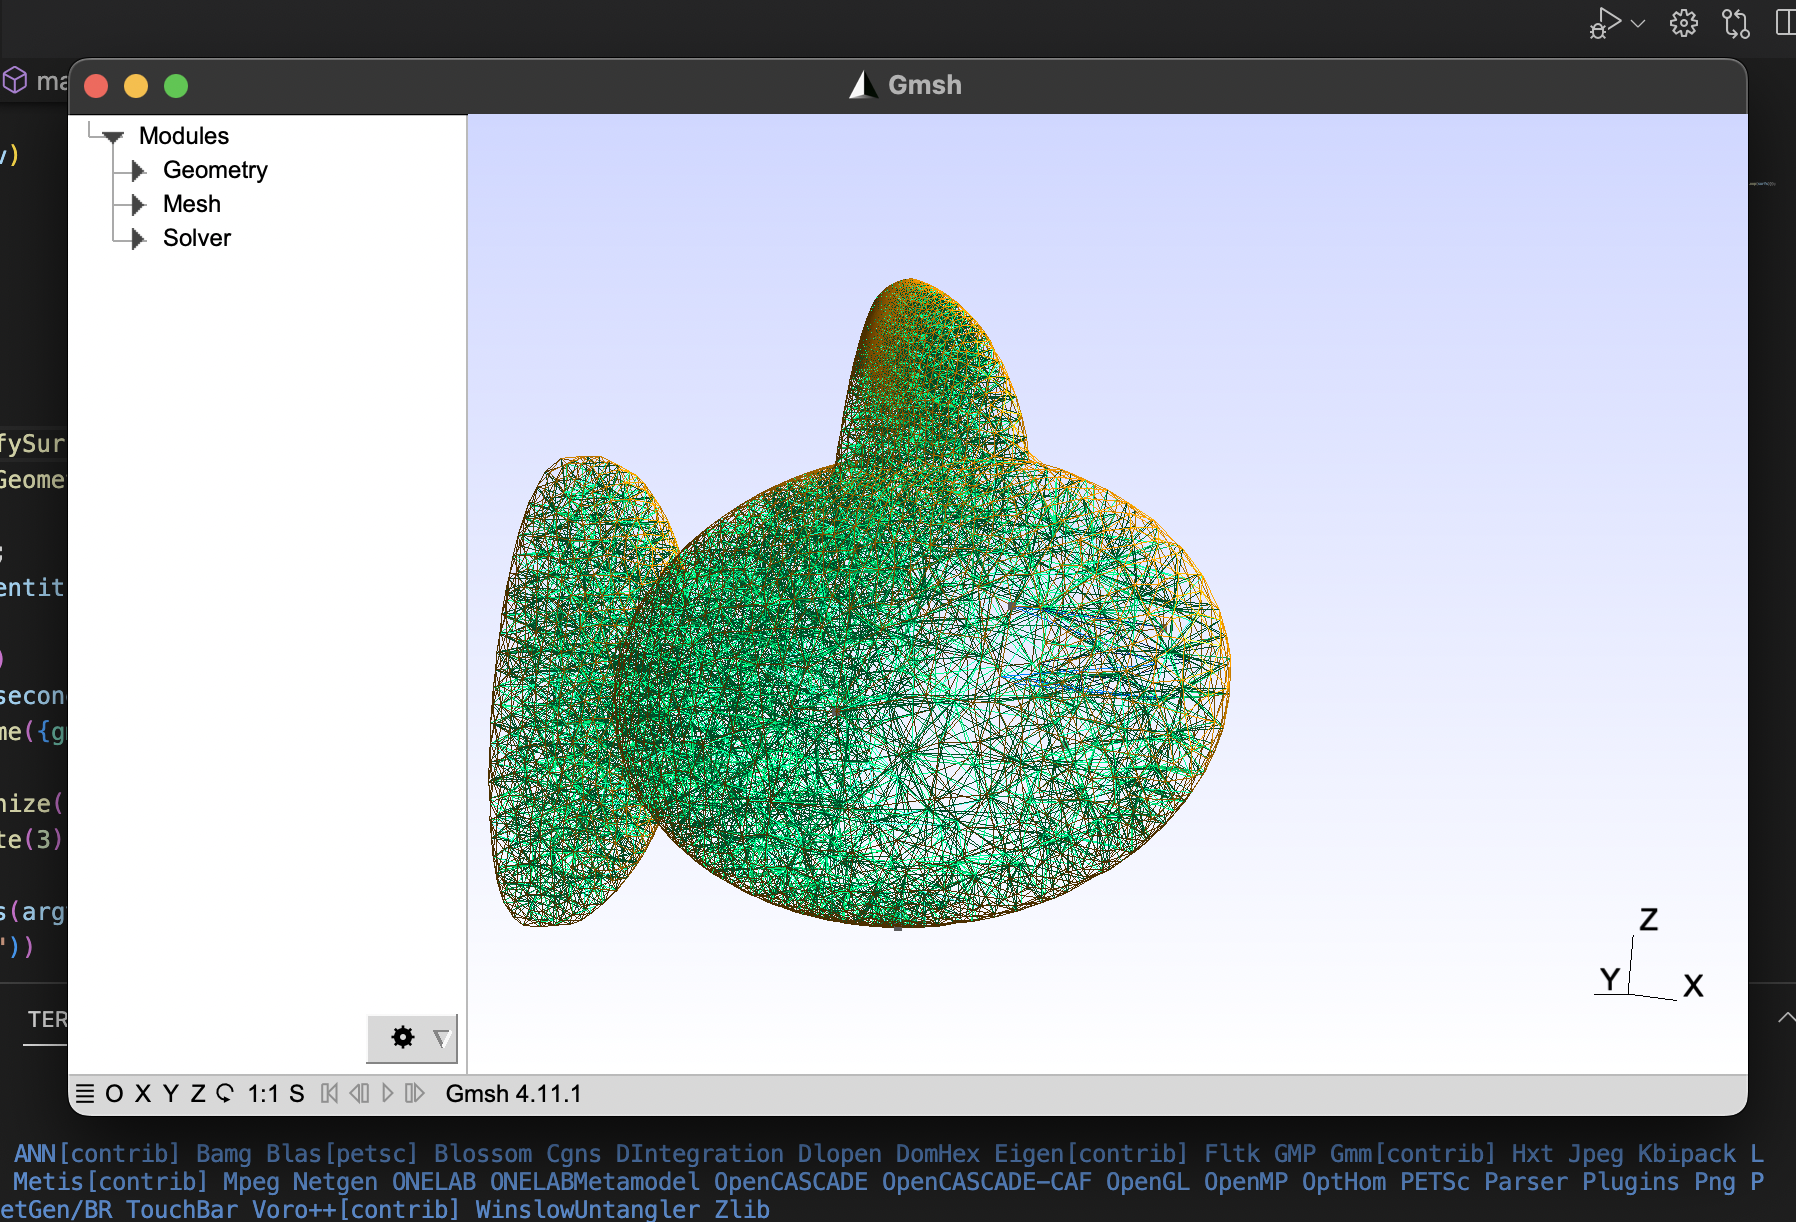
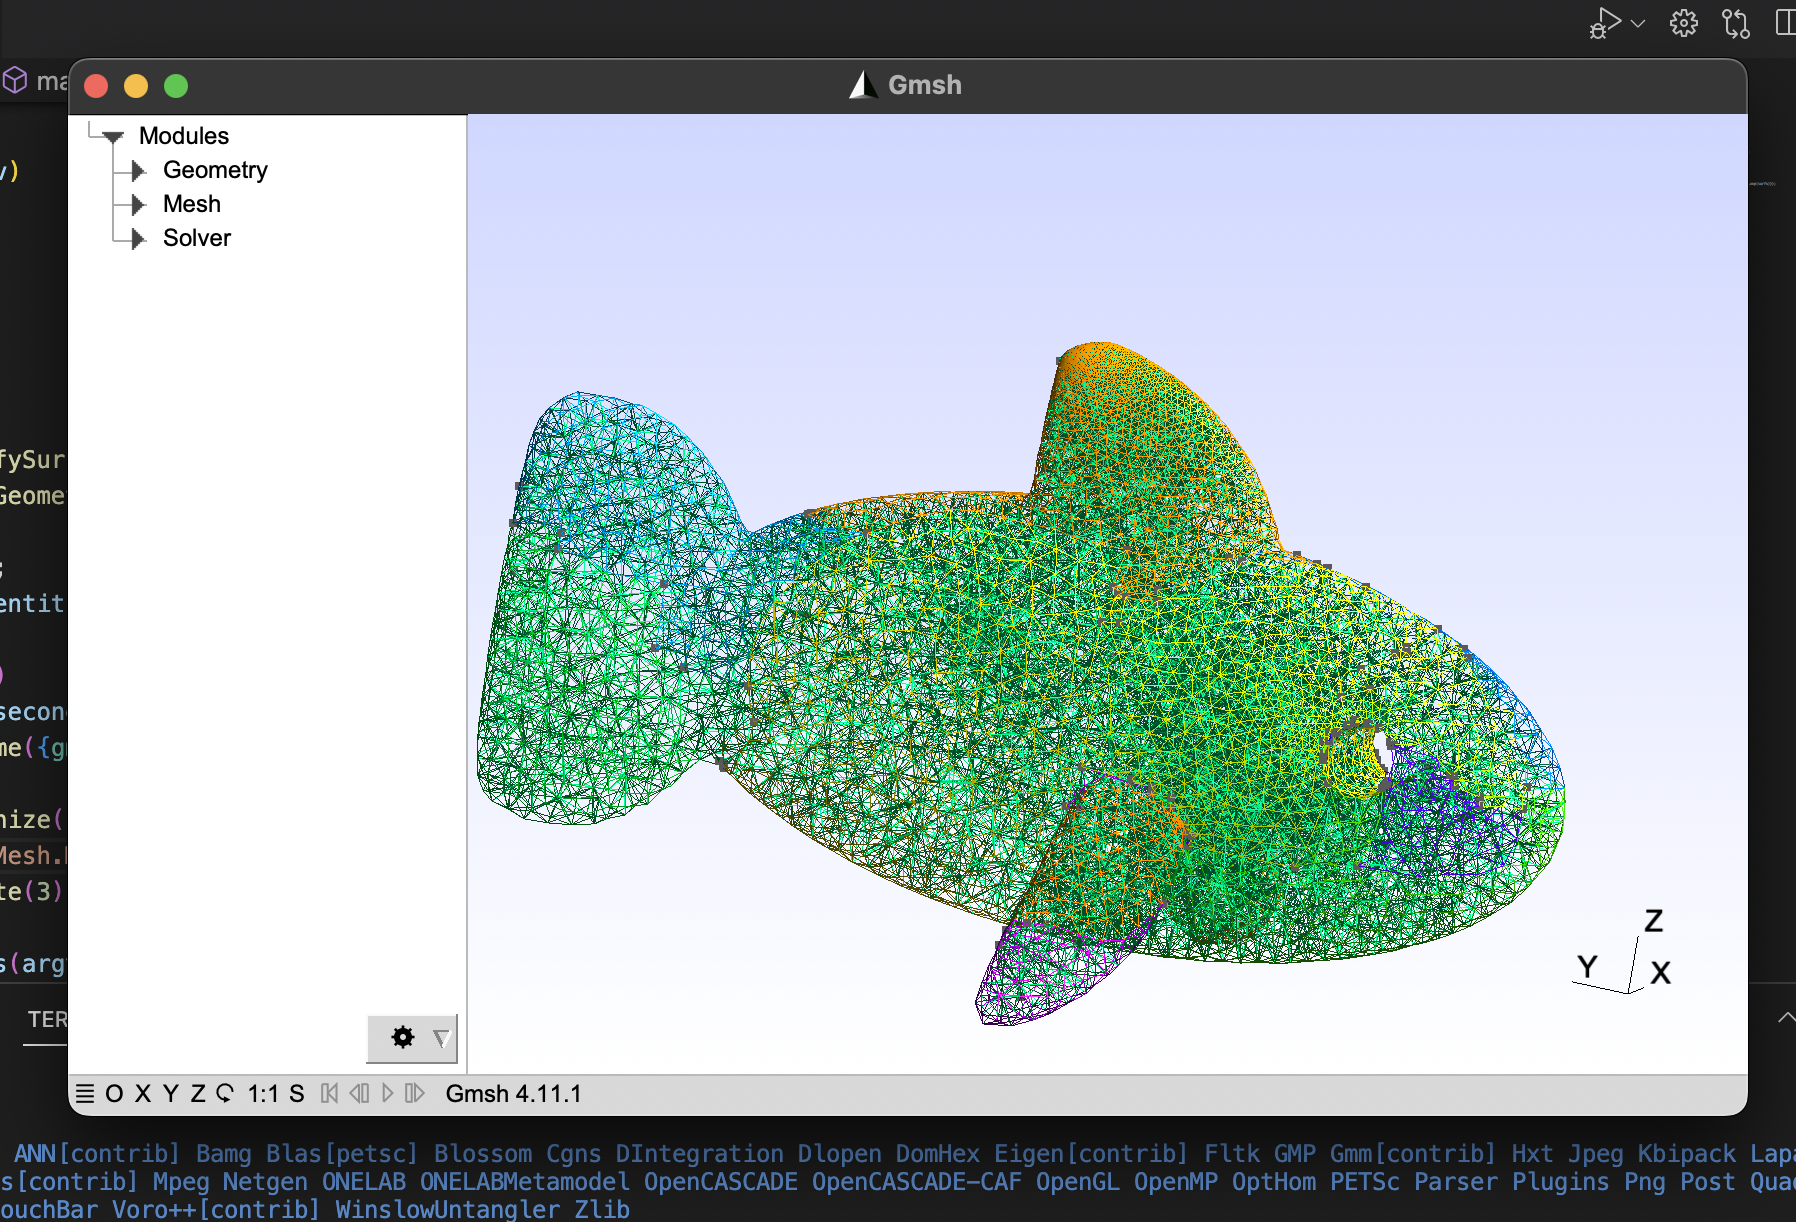
stage 02 fish

diff --git a/Solutions/01_meshes/stage2.cpp b/Solutions/01_meshes/stage2.cpp
@@ -10,7 +10,7 @@ int main(int argc, char **argv)
 
     gmsh::merge("fish.stl");
 
-    gmsh::model::mesh::classifySurfaces(1, true, false);
+    gmsh::model::mesh::classifySurfaces(1.1, true, true, 1.3);
     gmsh::model::mesh::createGeometry();
 
     gmsh::vectorpair entities;
@@ -21,6 +21,7 @@ int main(int argc, char **argv)
     gmsh::model::geo::addVolume({gmsh::model::geo::addSurfaceLoop(surfs)});
 
     gmsh::model::geo::synchronize();
+    gmsh::option::setNumber("Mesh.MeshSizeFactor", 0.2);
     gmsh::model::mesh::generate(3);
 
     std::set<std::string> args(argv, argv + argc);
